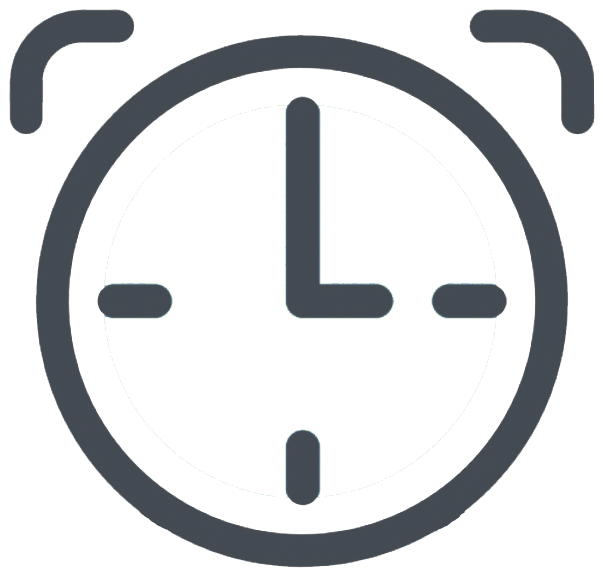
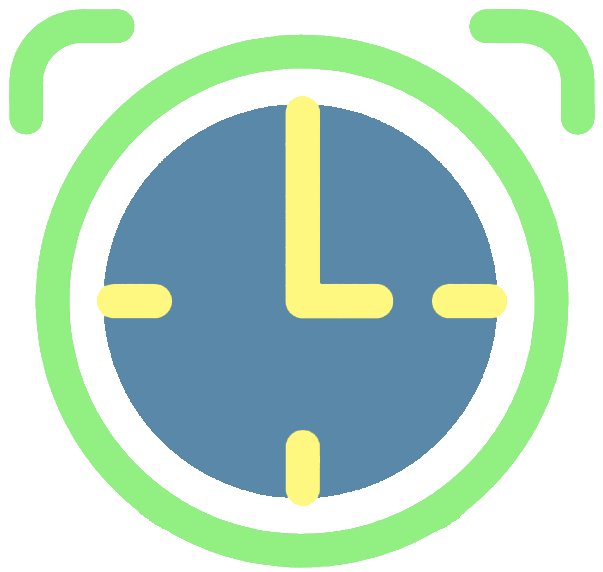
-

diff --git a/ExaminerB/Service/BeService.cs b/ExaminerB/Service/BeService.cs
@@ -3391,11 +3391,10 @@ namespace ExaminerB.Services2Backend
                 await reader2.CloseAsync ();
                 }
             await cnn.CloseAsync ();
-            // Sort: Unread first (bit 0 = 0), then read (bit 0 = 1), then by date
+            // Sort: 
             lstChats = lstChats
-                .OrderBy (chat => (chat.ChatTags & 1) == 0 ? 0 : 1)  // Unread first
-                .ThenByDescending (chat => chat.DateTimeSent)
-                .ToList ();
+            .OrderByDescending (chat => chat.DateTimeSent)
+            .ToList ();
             return lstChats;
             }
         public async Task<List<Chat>> Read_ChatsWithOneMateAsync (int studentId, int mateId)

diff --git a/ExaminerB/Program.cs b/ExaminerB/Program.cs
@@ -16,8 +16,8 @@ builder.Services.AddScoped<BeIService, BeService> ();
 builder.Services.AddHttpClient<FeService> (client =>
 {
     //var baseAddress = builder.Configuration["BaseAddress"] ?? "http://localhost:5232";  //local server: for Linux (http ONLY)
-    var baseAddress = builder.Configuration ["BaseAddress"] ?? "https://localhost:7139";  //local server: for Windows
-    //var baseAddress = builder.Configuration ["BaseAddress"] ?? "https://x.msht.ir";     //remote server: [x].msht.ir
+    //var baseAddress = builder.Configuration ["BaseAddress"] ?? "https://localhost:7139";  //local server: for Windows
+    var baseAddress = builder.Configuration ["BaseAddress"] ?? "https://x.msht.ir";     //remote server: [x].msht.ir
     client.BaseAddress = new Uri (baseAddress);
     client.Timeout = TimeSpan.FromSeconds (120);
 });